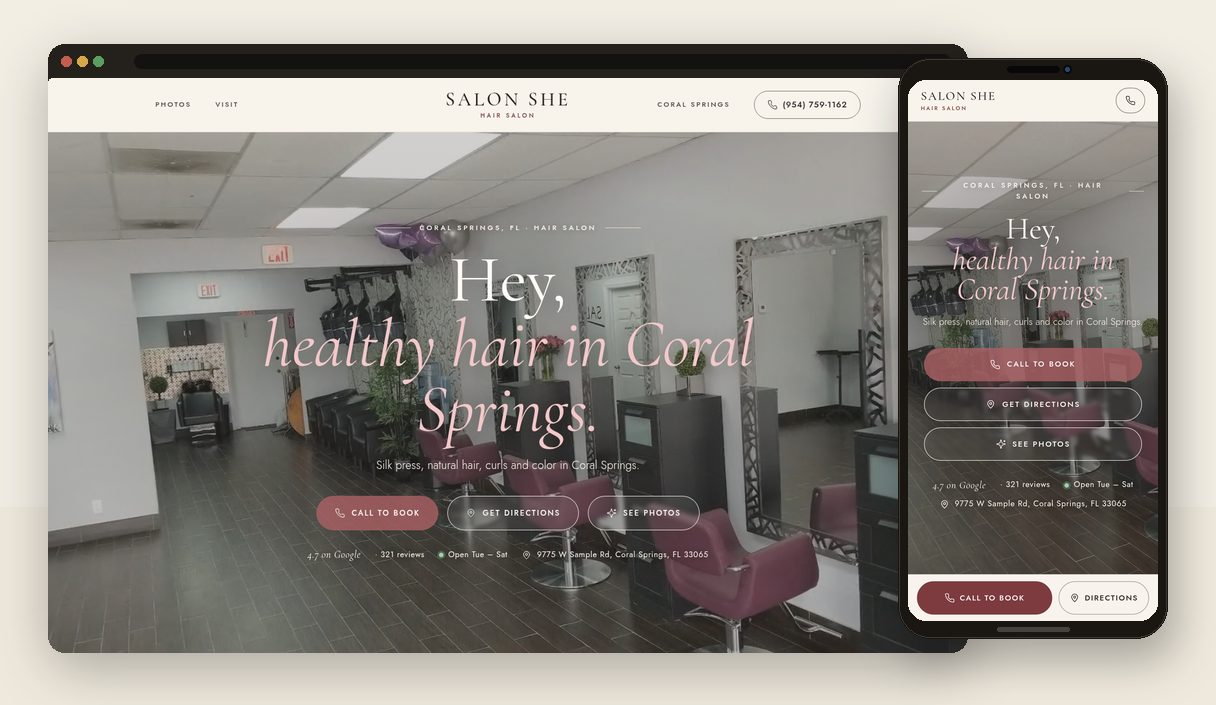
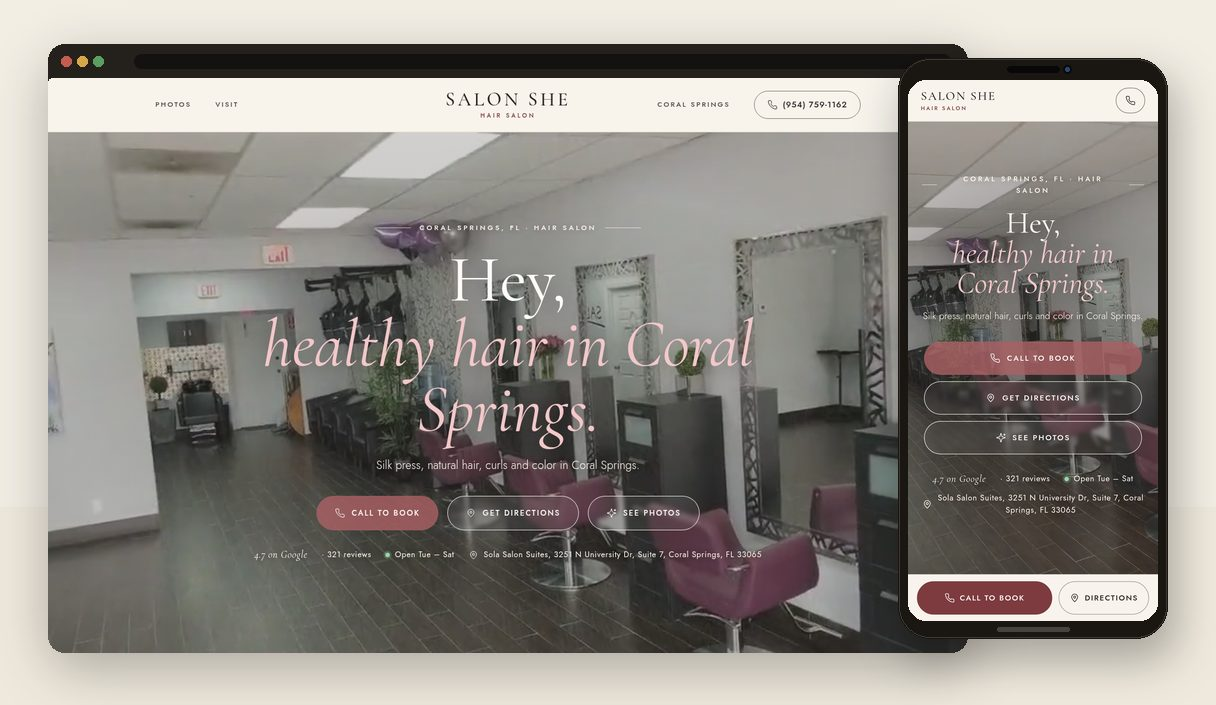
salon-she: temporary Sola Suites address

Changed region(s): [[0.75, 0.3121, 0.9375, 0.7489], [0.2188, 0.7801, 0.625, 0.8113], [0.7812, 0.2496, 0.9062, 0.2809]]

diff --git a/salon-she-coral-springs/index.html b/salon-she-coral-springs/index.html
@@ -96,7 +96,7 @@ video::-webkit-media-controls,video::-webkit-media-controls-overlay-play-button{
 <header class="nav"><div class="wrap in">
 <nav class="l"><a href="#peek">Photos</a><a href="#visit">Visit</a></nav>
 <a class="mark" href="#top"><b>Salon She</b><small>Hair Salon</small></a>
-<div class="r"><a class="t" href="https://www.google.com/maps/search/?api=1&query=Salon%20She%2C%209775%20W%20Sample%20Rd%2C%20Coral%20Springs%2C%20FL%2033065" target="_blank" rel="noopener">Coral Springs</a><a class="pill" href="tel:+19547591162"><svg class="ic" viewBox="0 0 24 24" fill="none" stroke="currentColor" stroke-width="1.5" stroke-linecap="round" stroke-linejoin="round" aria-hidden="true"><path d="M22 16.92v3a2 2 0 0 1-2.18 2 19.8 19.8 0 0 1-8.63-3.07 19.5 19.5 0 0 1-6-6A19.8 19.8 0 0 1 2.12 4.18 2 2 0 0 1 4.11 2h3a2 2 0 0 1 2 1.72c.13.96.36 1.9.7 2.81a2 2 0 0 1-.45 2.11L8.09 9.91a16 16 0 0 0 6 6l1.27-1.27a2 2 0 0 1 2.11-.45c.9.34 1.85.57 2.81.7A2 2 0 0 1 22 16.92z"/></svg><span>(954) 759-1162</span></a></div>
+<div class="r"><a class="t" href="https://www.google.com/maps/search/?api=1&query=Salon%20She%2C%20Sola%20Salon%20Suites%2C%203251%20N%20University%20Dr%2C%20Suite%207%2C%20Coral%20Springs%2C%20FL%2033065" target="_blank" rel="noopener">Coral Springs</a><a class="pill" href="tel:+19547591162"><svg class="ic" viewBox="0 0 24 24" fill="none" stroke="currentColor" stroke-width="1.5" stroke-linecap="round" stroke-linejoin="round" aria-hidden="true"><path d="M22 16.92v3a2 2 0 0 1-2.18 2 19.8 19.8 0 0 1-8.63-3.07 19.5 19.5 0 0 1-6-6A19.8 19.8 0 0 1 2.12 4.18 2 2 0 0 1 4.11 2h3a2 2 0 0 1 2 1.72c.13.96.36 1.9.7 2.81a2 2 0 0 1-.45 2.11L8.09 9.91a16 16 0 0 0 6 6l1.27-1.27a2 2 0 0 1 2.11-.45c.9.34 1.85.57 2.81.7A2 2 0 0 1 22 16.92z"/></svg><span>(954) 759-1162</span></a></div>
 </div></header>
 <main id="top">
 <section class="hero">
@@ -106,19 +106,19 @@ video::-webkit-media-controls,video::-webkit-media-controls-overlay-play-button{
 <div class="eyebrow">Coral Springs, FL · Hair Salon</div>
 <h1>Hey, <em>healthy hair in Coral Springs.</em></h1>
 <p class="sub">Silk press, natural hair, curls and color in Coral Springs.</p>
-<div class="cta"><a class="btn btn-s" href="tel:+19547591162"><svg class="ic" viewBox="0 0 24 24" fill="none" stroke="currentColor" stroke-width="1.5" stroke-linecap="round" stroke-linejoin="round" aria-hidden="true"><path d="M22 16.92v3a2 2 0 0 1-2.18 2 19.8 19.8 0 0 1-8.63-3.07 19.5 19.5 0 0 1-6-6A19.8 19.8 0 0 1 2.12 4.18 2 2 0 0 1 4.11 2h3a2 2 0 0 1 2 1.72c.13.96.36 1.9.7 2.81a2 2 0 0 1-.45 2.11L8.09 9.91a16 16 0 0 0 6 6l1.27-1.27a2 2 0 0 1 2.11-.45c.9.34 1.85.57 2.81.7A2 2 0 0 1 22 16.92z"/></svg>Call to book</a><a class="btn btn-o" href="https://www.google.com/maps/search/?api=1&query=Salon%20She%2C%209775%20W%20Sample%20Rd%2C%20Coral%20Springs%2C%20FL%2033065" target="_blank" rel="noopener"><svg class="ic" viewBox="0 0 24 24" fill="none" stroke="currentColor" stroke-width="1.5" stroke-linecap="round" stroke-linejoin="round" aria-hidden="true"><path d="M12 21s-7-6.2-7-11a7 7 0 0 1 14 0c0 4.8-7 11-7 11z"/><circle cx="12" cy="10" r="2.5"/></svg>Get directions</a><a class="btn btn-o" href="#peek"><svg class="ic" viewBox="0 0 24 24" fill="none" stroke="currentColor" stroke-width="1.5" stroke-linecap="round" stroke-linejoin="round" aria-hidden="true"><path d="M9.94 15.5A2 2 0 0 0 8.5 14.06l-6.14-1.58a.5.5 0 0 1 0-.96L8.5 9.94A2 2 0 0 0 9.94 8.5l1.58-6.14a.5.5 0 0 1 .96 0l1.58 6.14a2 2 0 0 0 1.44 1.44l6.14 1.58a.5.5 0 0 1 0 .96l-6.14 1.58a2 2 0 0 0-1.44 1.44l-1.58 6.14a.5.5 0 0 1-.96 0z"/><path d="M20 3v4M22 5h-4"/></svg>See photos</a></div>
-<div class="trust"><span class="st">4.7 on Google</span><span>· 321 reviews</span><span><i class="dot" id="od"></i><b id="os" style="font-weight:400" data-def="Open Tue – Sat">Open Tue – Sat</b></span><span><svg class="ic" viewBox="0 0 24 24" fill="none" stroke="currentColor" stroke-width="1.5" stroke-linecap="round" stroke-linejoin="round" aria-hidden="true"><path d="M12 21s-7-6.2-7-11a7 7 0 0 1 14 0c0 4.8-7 11-7 11z"/><circle cx="12" cy="10" r="2.5"/></svg>9775 W Sample Rd, Coral Springs, FL 33065</span></div>
+<div class="cta"><a class="btn btn-s" href="tel:+19547591162"><svg class="ic" viewBox="0 0 24 24" fill="none" stroke="currentColor" stroke-width="1.5" stroke-linecap="round" stroke-linejoin="round" aria-hidden="true"><path d="M22 16.92v3a2 2 0 0 1-2.18 2 19.8 19.8 0 0 1-8.63-3.07 19.5 19.5 0 0 1-6-6A19.8 19.8 0 0 1 2.12 4.18 2 2 0 0 1 4.11 2h3a2 2 0 0 1 2 1.72c.13.96.36 1.9.7 2.81a2 2 0 0 1-.45 2.11L8.09 9.91a16 16 0 0 0 6 6l1.27-1.27a2 2 0 0 1 2.11-.45c.9.34 1.85.57 2.81.7A2 2 0 0 1 22 16.92z"/></svg>Call to book</a><a class="btn btn-o" href="https://www.google.com/maps/search/?api=1&query=Salon%20She%2C%20Sola%20Salon%20Suites%2C%203251%20N%20University%20Dr%2C%20Suite%207%2C%20Coral%20Springs%2C%20FL%2033065" target="_blank" rel="noopener"><svg class="ic" viewBox="0 0 24 24" fill="none" stroke="currentColor" stroke-width="1.5" stroke-linecap="round" stroke-linejoin="round" aria-hidden="true"><path d="M12 21s-7-6.2-7-11a7 7 0 0 1 14 0c0 4.8-7 11-7 11z"/><circle cx="12" cy="10" r="2.5"/></svg>Get directions</a><a class="btn btn-o" href="#peek"><svg class="ic" viewBox="0 0 24 24" fill="none" stroke="currentColor" stroke-width="1.5" stroke-linecap="round" stroke-linejoin="round" aria-hidden="true"><path d="M9.94 15.5A2 2 0 0 0 8.5 14.06l-6.14-1.58a.5.5 0 0 1 0-.96L8.5 9.94A2 2 0 0 0 9.94 8.5l1.58-6.14a.5.5 0 0 1 .96 0l1.58 6.14a2 2 0 0 0 1.44 1.44l6.14 1.58a.5.5 0 0 1 0 .96l-6.14 1.58a2 2 0 0 0-1.44 1.44l-1.58 6.14a.5.5 0 0 1-.96 0z"/><path d="M20 3v4M22 5h-4"/></svg>See photos</a></div>
+<div class="trust"><span class="st">4.7 on Google</span><span>· 321 reviews</span><span><i class="dot" id="od"></i><b id="os" style="font-weight:400" data-def="Open Tue – Sat">Open Tue – Sat</b></span><span><svg class="ic" viewBox="0 0 24 24" fill="none" stroke="currentColor" stroke-width="1.5" stroke-linecap="round" stroke-linejoin="round" aria-hidden="true"><path d="M12 21s-7-6.2-7-11a7 7 0 0 1 14 0c0 4.8-7 11-7 11z"/><circle cx="12" cy="10" r="2.5"/></svg>Sola Salon Suites, 3251 N University Dr, Suite 7, Coral Springs, FL 33065</span></div>
 </div></section>
 <section class="peek" id="peek"><div class="wrap">
 <div class="orn rv">A first look</div><h2 class="rv">A few <em>real moments.</em></h2><p class="lede rv">Real photos from Salon She. Tap one to view it larger.</p>
 <div class="strip n4"><button class="g rv" data-i="0" aria-label="Open photo 1"><img src="g/01-s.webp" width="1400" height="1050" loading="lazy" decoding="async" alt="Salon She, Coral Springs, FL: photo 1"></button><button class="g rv" data-i="1" aria-label="Open photo 2"><img src="g/02-s.webp" width="1050" height="1400" loading="lazy" decoding="async" alt="Salon She, Coral Springs, FL: photo 2"></button><button class="g rv" data-i="2" aria-label="Open photo 3"><img src="g/03-s.webp" width="787" height="1400" loading="lazy" decoding="async" alt="Salon She, Coral Springs, FL: photo 3"></button><button class="g rv" data-i="3" aria-label="Open photo 4"><img src="g/04-s.webp" width="1050" height="1400" loading="lazy" decoding="async" alt="Salon She, Coral Springs, FL: photo 4"></button></div></div></section>
 <section class="closing" id="visit"><div class="wrap"><div class="cl rv">
 <div class="orn">Visit us</div><h2>Come <em>see us.</em></h2><p>Call ahead or stop by. We will take care of you.</p><p class="hrs"><b>Hours</b>Tue – Sat 10 AM – 5 PM.</p>
-<div class="cta"><a class="btn btn-s" href="tel:+19547591162"><svg class="ic" viewBox="0 0 24 24" fill="none" stroke="currentColor" stroke-width="1.5" stroke-linecap="round" stroke-linejoin="round" aria-hidden="true"><path d="M22 16.92v3a2 2 0 0 1-2.18 2 19.8 19.8 0 0 1-8.63-3.07 19.5 19.5 0 0 1-6-6A19.8 19.8 0 0 1 2.12 4.18 2 2 0 0 1 4.11 2h3a2 2 0 0 1 2 1.72c.13.96.36 1.9.7 2.81a2 2 0 0 1-.45 2.11L8.09 9.91a16 16 0 0 0 6 6l1.27-1.27a2 2 0 0 1 2.11-.45c.9.34 1.85.57 2.81.7A2 2 0 0 1 22 16.92z"/></svg>Call (954) 759-1162</a><a class="btn btn-o" href="https://www.google.com/maps/search/?api=1&query=Salon%20She%2C%209775%20W%20Sample%20Rd%2C%20Coral%20Springs%2C%20FL%2033065" target="_blank" rel="noopener"><svg class="ic" viewBox="0 0 24 24" fill="none" stroke="currentColor" stroke-width="1.5" stroke-linecap="round" stroke-linejoin="round" aria-hidden="true"><path d="M12 21s-7-6.2-7-11a7 7 0 0 1 14 0c0 4.8-7 11-7 11z"/><circle cx="12" cy="10" r="2.5"/></svg>Get directions</a></div>
+<div class="cta"><a class="btn btn-s" href="tel:+19547591162"><svg class="ic" viewBox="0 0 24 24" fill="none" stroke="currentColor" stroke-width="1.5" stroke-linecap="round" stroke-linejoin="round" aria-hidden="true"><path d="M22 16.92v3a2 2 0 0 1-2.18 2 19.8 19.8 0 0 1-8.63-3.07 19.5 19.5 0 0 1-6-6A19.8 19.8 0 0 1 2.12 4.18 2 2 0 0 1 4.11 2h3a2 2 0 0 1 2 1.72c.13.96.36 1.9.7 2.81a2 2 0 0 1-.45 2.11L8.09 9.91a16 16 0 0 0 6 6l1.27-1.27a2 2 0 0 1 2.11-.45c.9.34 1.85.57 2.81.7A2 2 0 0 1 22 16.92z"/></svg>Call (954) 759-1162</a><a class="btn btn-o" href="https://www.google.com/maps/search/?api=1&query=Salon%20She%2C%20Sola%20Salon%20Suites%2C%203251%20N%20University%20Dr%2C%20Suite%207%2C%20Coral%20Springs%2C%20FL%2033065" target="_blank" rel="noopener"><svg class="ic" viewBox="0 0 24 24" fill="none" stroke="currentColor" stroke-width="1.5" stroke-linecap="round" stroke-linejoin="round" aria-hidden="true"><path d="M12 21s-7-6.2-7-11a7 7 0 0 1 14 0c0 4.8-7 11-7 11z"/><circle cx="12" cy="10" r="2.5"/></svg>Get directions</a></div>
 </div></div></section>
 </main>
-<footer><div class="wrap in"><div><b>Salon She</b>9775 W Sample Rd, Coral Springs, FL 33065</div><div>(954) 759-1162</div></div></footer>
-<div class="mbar" id="mb"><a class="p" href="tel:+19547591162"><svg class="ic" viewBox="0 0 24 24" fill="none" stroke="currentColor" stroke-width="1.5" stroke-linecap="round" stroke-linejoin="round" aria-hidden="true"><path d="M22 16.92v3a2 2 0 0 1-2.18 2 19.8 19.8 0 0 1-8.63-3.07 19.5 19.5 0 0 1-6-6A19.8 19.8 0 0 1 2.12 4.18 2 2 0 0 1 4.11 2h3a2 2 0 0 1 2 1.72c.13.96.36 1.9.7 2.81a2 2 0 0 1-.45 2.11L8.09 9.91a16 16 0 0 0 6 6l1.27-1.27a2 2 0 0 1 2.11-.45c.9.34 1.85.57 2.81.7A2 2 0 0 1 22 16.92z"/></svg>Call to book</a><a href="https://www.google.com/maps/search/?api=1&query=Salon%20She%2C%209775%20W%20Sample%20Rd%2C%20Coral%20Springs%2C%20FL%2033065" target="_blank" rel="noopener"><svg class="ic" viewBox="0 0 24 24" fill="none" stroke="currentColor" stroke-width="1.5" stroke-linecap="round" stroke-linejoin="round" aria-hidden="true"><path d="M12 21s-7-6.2-7-11a7 7 0 0 1 14 0c0 4.8-7 11-7 11z"/><circle cx="12" cy="10" r="2.5"/></svg>Directions</a></div>
+<footer><div class="wrap in"><div><b>Salon She</b>Sola Salon Suites, 3251 N University Dr, Suite 7, Coral Springs, FL 33065</div><div>(954) 759-1162</div></div></footer>
+<div class="mbar" id="mb"><a class="p" href="tel:+19547591162"><svg class="ic" viewBox="0 0 24 24" fill="none" stroke="currentColor" stroke-width="1.5" stroke-linecap="round" stroke-linejoin="round" aria-hidden="true"><path d="M22 16.92v3a2 2 0 0 1-2.18 2 19.8 19.8 0 0 1-8.63-3.07 19.5 19.5 0 0 1-6-6A19.8 19.8 0 0 1 2.12 4.18 2 2 0 0 1 4.11 2h3a2 2 0 0 1 2 1.72c.13.96.36 1.9.7 2.81a2 2 0 0 1-.45 2.11L8.09 9.91a16 16 0 0 0 6 6l1.27-1.27a2 2 0 0 1 2.11-.45c.9.34 1.85.57 2.81.7A2 2 0 0 1 22 16.92z"/></svg>Call to book</a><a href="https://www.google.com/maps/search/?api=1&query=Salon%20She%2C%20Sola%20Salon%20Suites%2C%203251%20N%20University%20Dr%2C%20Suite%207%2C%20Coral%20Springs%2C%20FL%2033065" target="_blank" rel="noopener"><svg class="ic" viewBox="0 0 24 24" fill="none" stroke="currentColor" stroke-width="1.5" stroke-linecap="round" stroke-linejoin="round" aria-hidden="true"><path d="M12 21s-7-6.2-7-11a7 7 0 0 1 14 0c0 4.8-7 11-7 11z"/><circle cx="12" cy="10" r="2.5"/></svg>Directions</a></div>
 <div class="lb" id="lb" role="dialog" aria-modal="true" aria-label="Photo viewer"><button class="x" aria-label="Close"><svg class="ic" viewBox="0 0 24 24" fill="none" stroke="currentColor" stroke-width="1.5" stroke-linecap="round" stroke-linejoin="round" aria-hidden="true"><path d="M18 6 6 18M6 6l12 12"/></svg></button><button class="pv" aria-label="Previous"><svg class="ic" viewBox="0 0 24 24" fill="none" stroke="currentColor" stroke-width="1.5" stroke-linecap="round" stroke-linejoin="round" aria-hidden="true"><path d="m15 18-6-6 6-6"/></svg></button><img id="lbi" alt=""><button class="nx" aria-label="Next"><svg class="ic" viewBox="0 0 24 24" fill="none" stroke="currentColor" stroke-width="1.5" stroke-linecap="round" stroke-linejoin="round" aria-hidden="true"><path d="m9 18 6-6-6-6"/></svg></button><div class="ct" id="lbc"></div></div>
 <script>
 (function(){
